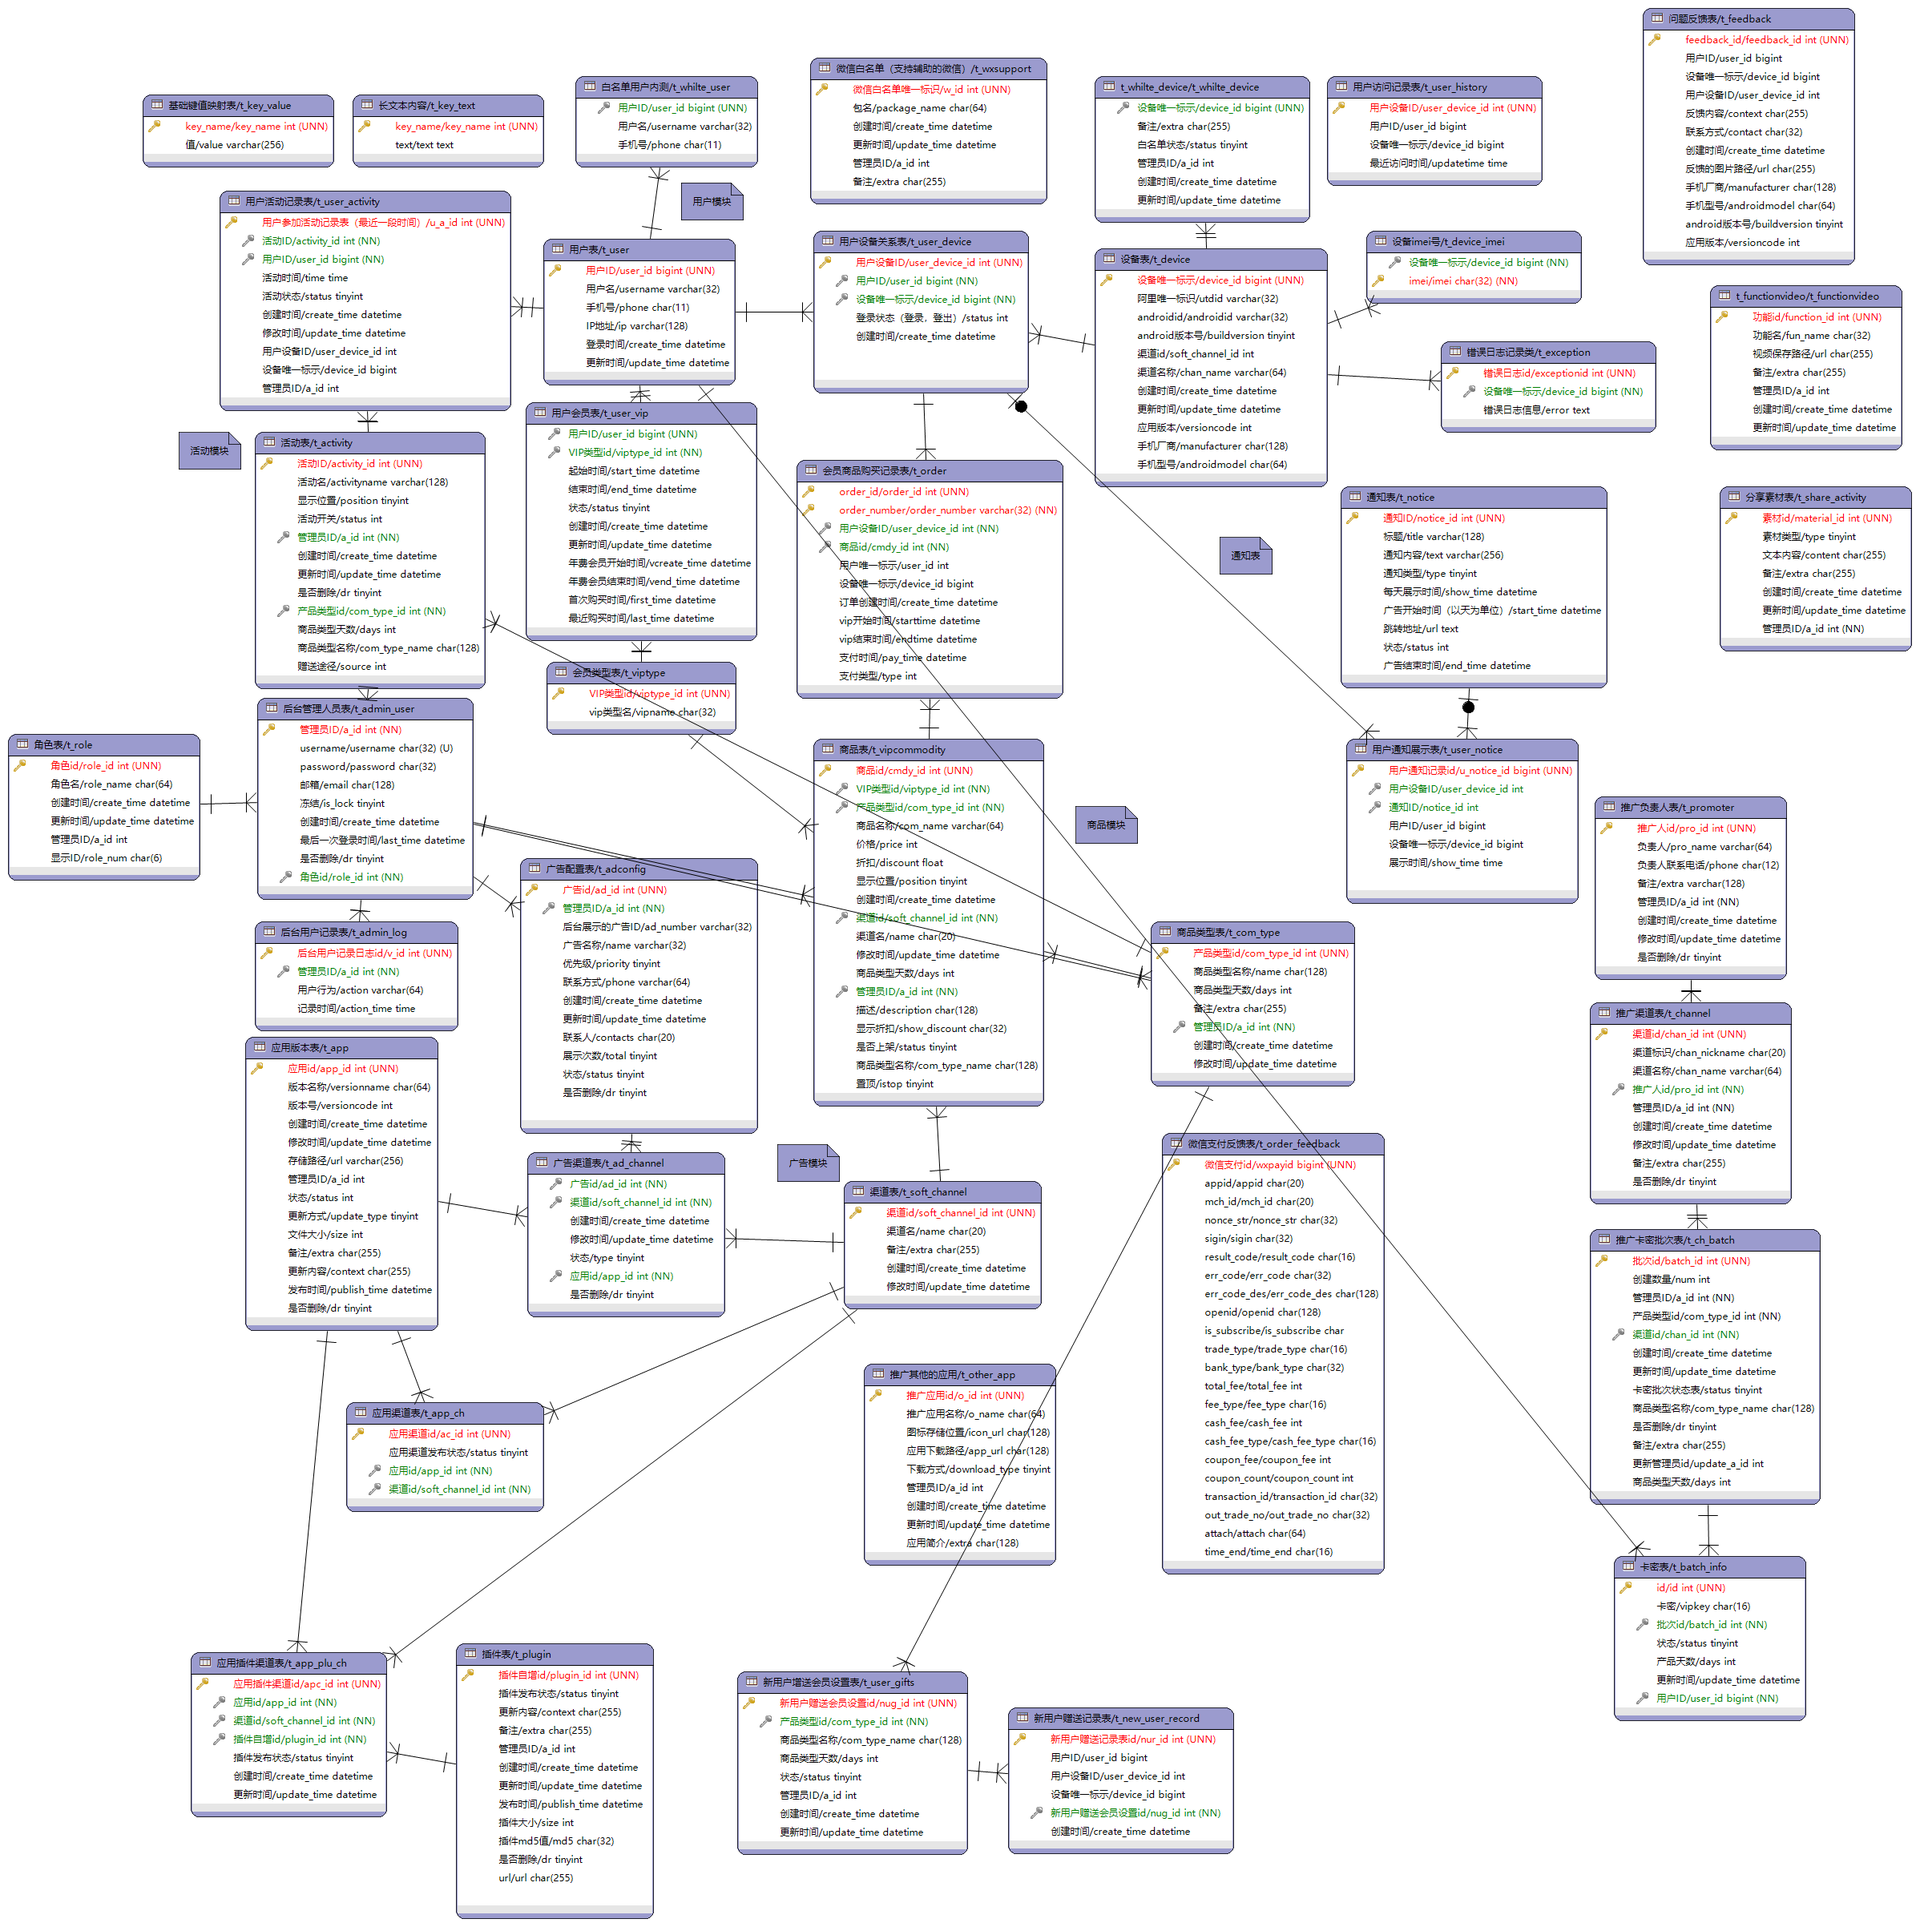
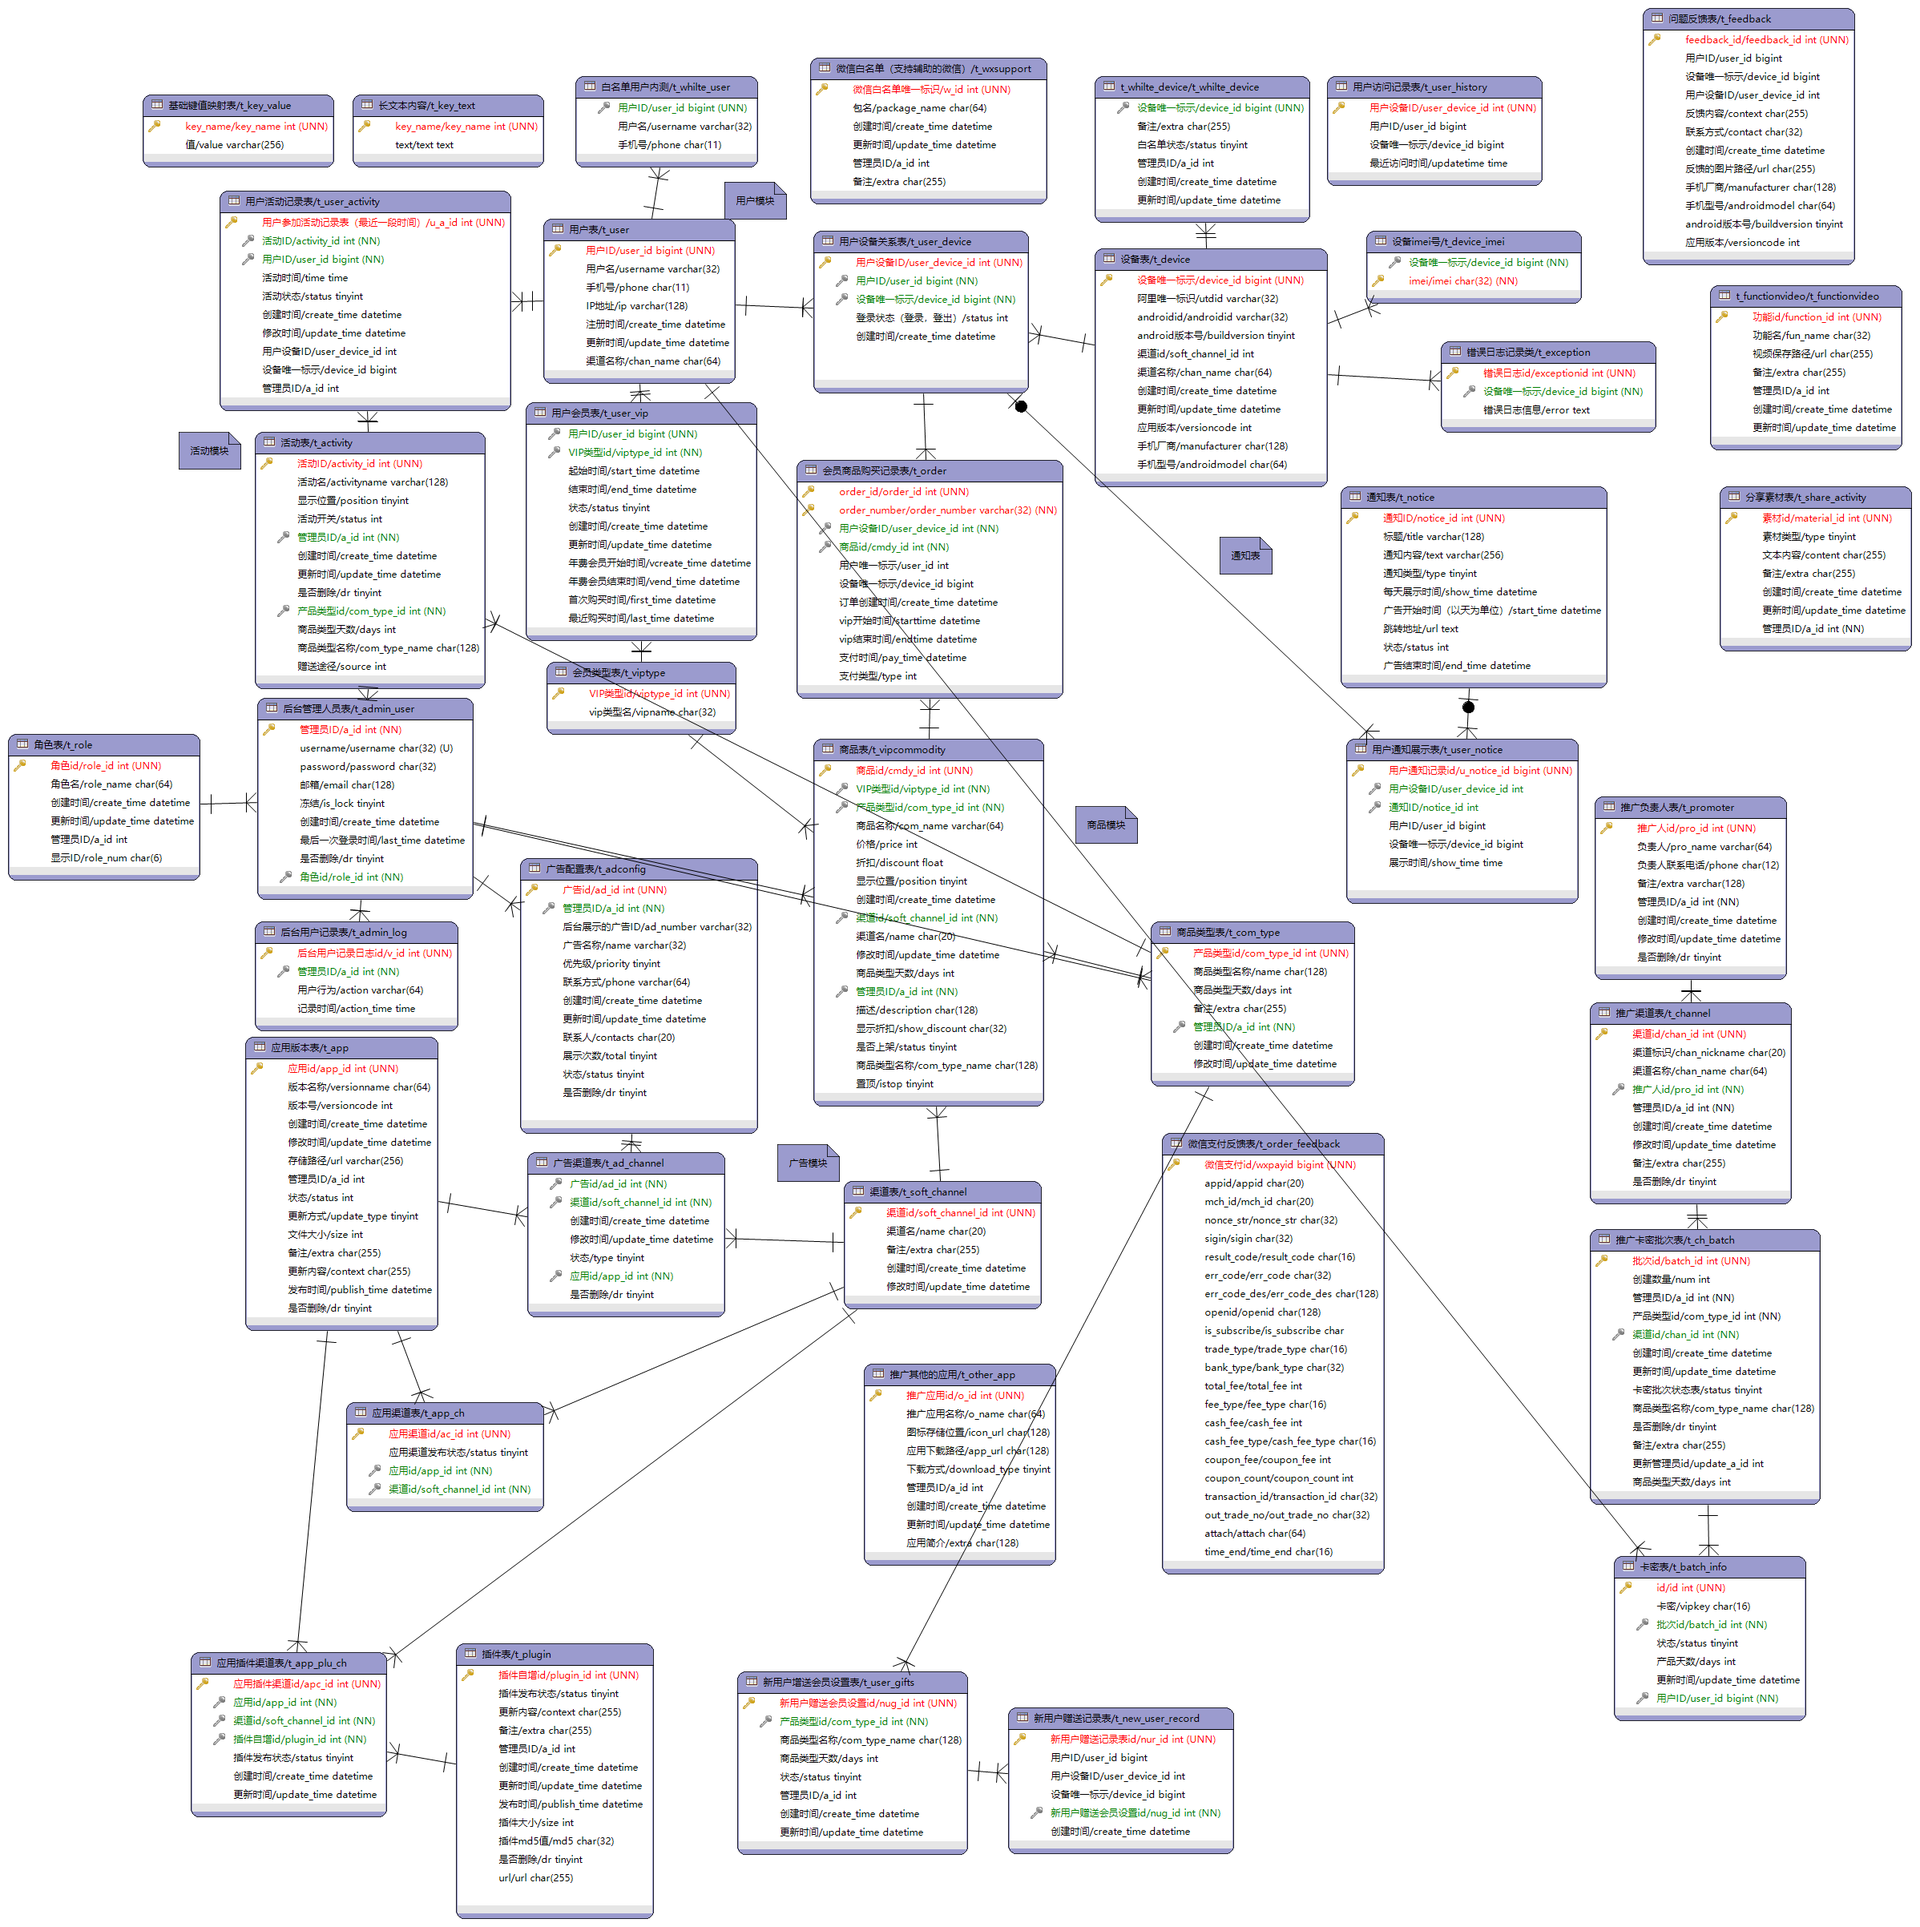
add t_user_activity t_user

Changed region(s): [[0.278, 0.0936, 0.4324, 0.2183]]

diff --git a/smartweb/src/main/java/com/rpa/web/pojo/UserActivityPO.java b/smartweb/src/main/java/com/rpa/web/pojo/UserActivityPO.java
@@ -31,6 +31,8 @@ public class UserActivityPO implements Serializable {
 
     private Integer aId;
 
+    private String url;
+
     private static final long serialVersionUID = 1L;
 
     public Integer getuAId() {
@@ -113,6 +115,14 @@ public class UserActivityPO implements Serializable {
         this.aId = aId;
     }
 
+    public String getUrl() {
+        return url;
+    }
+
+    public void setUrl(String url) {
+        this.url = url;
+    }
+
     @Override
     public boolean equals(Object that) {
         if (this == that) {
@@ -134,7 +144,8 @@ public class UserActivityPO implements Serializable {
             && (this.getUpdateTime() == null ? other.getUpdateTime() == null : this.getUpdateTime().equals(other.getUpdateTime()))
             && (this.getUserDeviceId() == null ? other.getUserDeviceId() == null : this.getUserDeviceId().equals(other.getUserDeviceId()))
             && (this.getDeviceId() == null ? other.getDeviceId() == null : this.getDeviceId().equals(other.getDeviceId()))
-            && (this.getaId() == null ? other.getaId() == null : this.getaId().equals(other.getaId()));
+            && (this.getaId() == null ? other.getaId() == null : this.getaId().equals(other.getaId()))
+            && (this.getUrl() == null ? other.getUrl() == null : this.getUrl().equals(other.getUrl()));
     }
 
     @Override
@@ -151,6 +162,7 @@ public class UserActivityPO implements Serializable {
         result = prime * result + ((getUserDeviceId() == null) ? 0 : getUserDeviceId().hashCode());
         result = prime * result + ((getDeviceId() == null) ? 0 : getDeviceId().hashCode());
         result = prime * result + ((getaId() == null) ? 0 : getaId().hashCode());
+        result = prime * result + ((getUrl() == null) ? 0 : getUrl().hashCode());
         return result;
     }
 
@@ -170,6 +182,7 @@ public class UserActivityPO implements Serializable {
         sb.append(", userDeviceId=").append(userDeviceId);
         sb.append(", deviceId=").append(deviceId);
         sb.append(", aId=").append(aId);
+        sb.append(", url=").append(url);
         sb.append(", serialVersionUID=").append(serialVersionUID);
         sb.append("]");
         return sb.toString();
